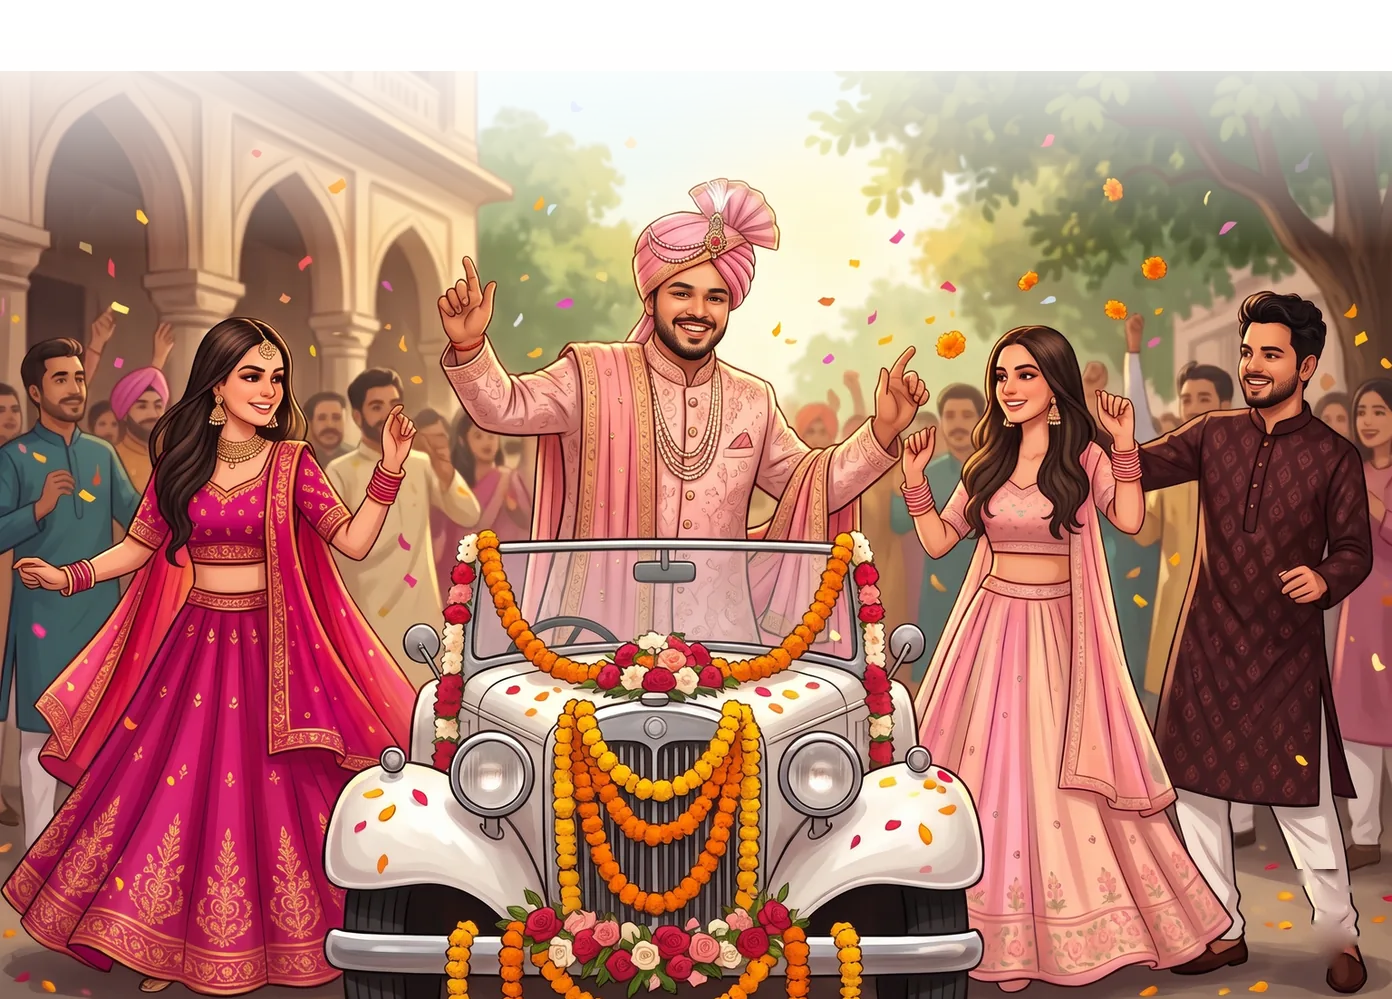
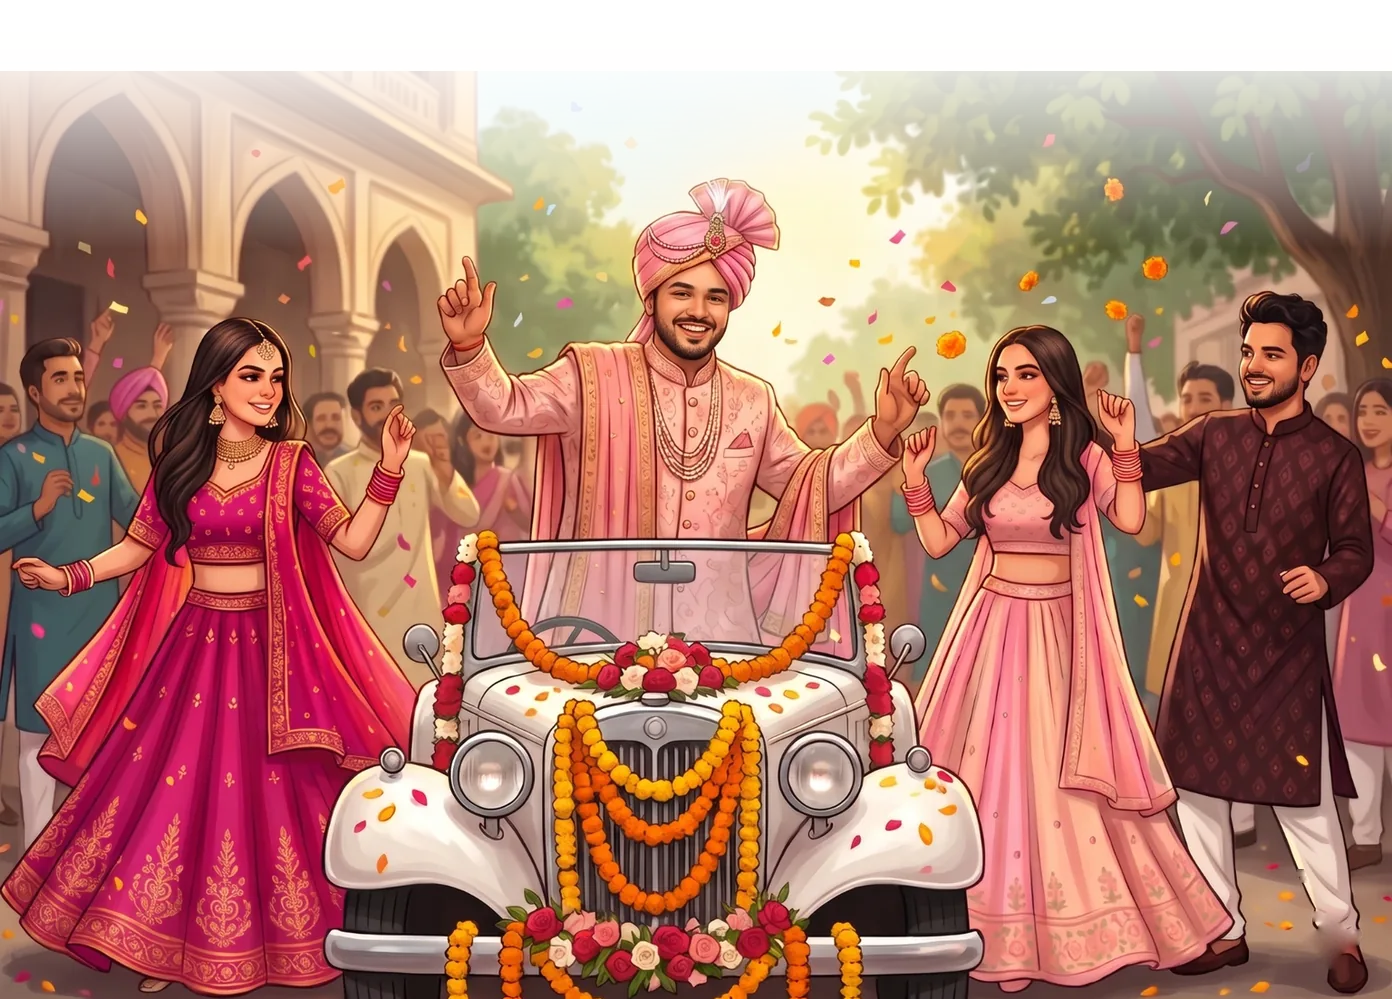
Use the user's chosen pictures for Sufi Night, Baraat and Carnival
Reception stays on the slim version. Corner sparkle painted out.

diff --git a/index.html b/index.html
@@ -170,7 +170,7 @@
     <a class="btn" href="calendar/carnival.ics" data-reveal>Add to calendar</a>
   </div>
   <div class="page__art">
-    <img class="page__bottom" data-strip="bottom" src="assets/art/carnival-bottom.webp?v=3" width="928" height="999" alt="Illustration of the couple walking into a meadow carnival of tents, pinwheels and colour" loading="lazy" decoding="async">
+    <img class="page__bottom" data-strip="bottom" src="assets/art/carnival-bottom.webp?v=5" width="928" height="999" alt="Illustration of the couple walking into a meadow carnival of tents, pinwheels and colour" loading="lazy" decoding="async">
     <div class="page__fx" aria-hidden="true">
       <span class="pinwheel pinwheel--1"></span><span class="pinwheel pinwheel--2"></span>
       <span class="gulal gulal--1"></span><span class="gulal gulal--2"></span><span class="gulal gulal--3"></span>
@@ -192,7 +192,7 @@
     <p class="when" data-reveal aria-label="12 December, Saturday, 8:00 pm onwards"><span class="when__seal" aria-hidden="true"><b>12</b><small>Dec</small></span><span class="when__info" aria-hidden="true"><em>Saturday</em><strong>8:00 pm</strong><small>onwards</small></span></p>
     <a class="btn" href="calendar/sufi-night.ics" data-reveal>Add to calendar</a>
   </div>
-  <img class="page__bottom" data-strip="bottom" src="assets/art/sufi-bottom.webp?v=3" width="928" height="932" alt="Illustration of the couple in a red lehenga and dark sherwani" loading="lazy" decoding="async">
+  <img class="page__bottom" data-strip="bottom" src="assets/art/sufi-bottom.webp?v=5" width="928" height="932" alt="Illustration of the couple in a red lehenga and dark sherwani" loading="lazy" decoding="async">
 </section>
 
 <!-- The sky keeps time: a new morning -->
@@ -209,7 +209,7 @@
     <p class="when" data-reveal aria-label="13 December, Sunday, 12 noon onwards"><span class="when__seal" aria-hidden="true"><b>13</b><small>Dec</small></span><span class="when__info" aria-hidden="true"><em>Sunday</em><strong>12:00 noon</strong><small>onwards</small></span></p>
     <a class="btn" href="calendar/wedding.ics" data-reveal>Add to calendar</a>
   </div>
-  <img class="page__bottom" data-strip="bottom" src="assets/art/baraat-bottom.webp?v=3" width="928" height="666" alt="Illustration of the baraat dancing around a flower-decked vintage car" loading="lazy" decoding="async">
+  <img class="page__bottom" data-strip="bottom" src="assets/art/baraat-bottom.webp?v=5" width="928" height="666" alt="Illustration of the baraat dancing around a flower-decked vintage car" loading="lazy" decoding="async">
 </section>
 
 <!-- The sky keeps time: night falls again -->
